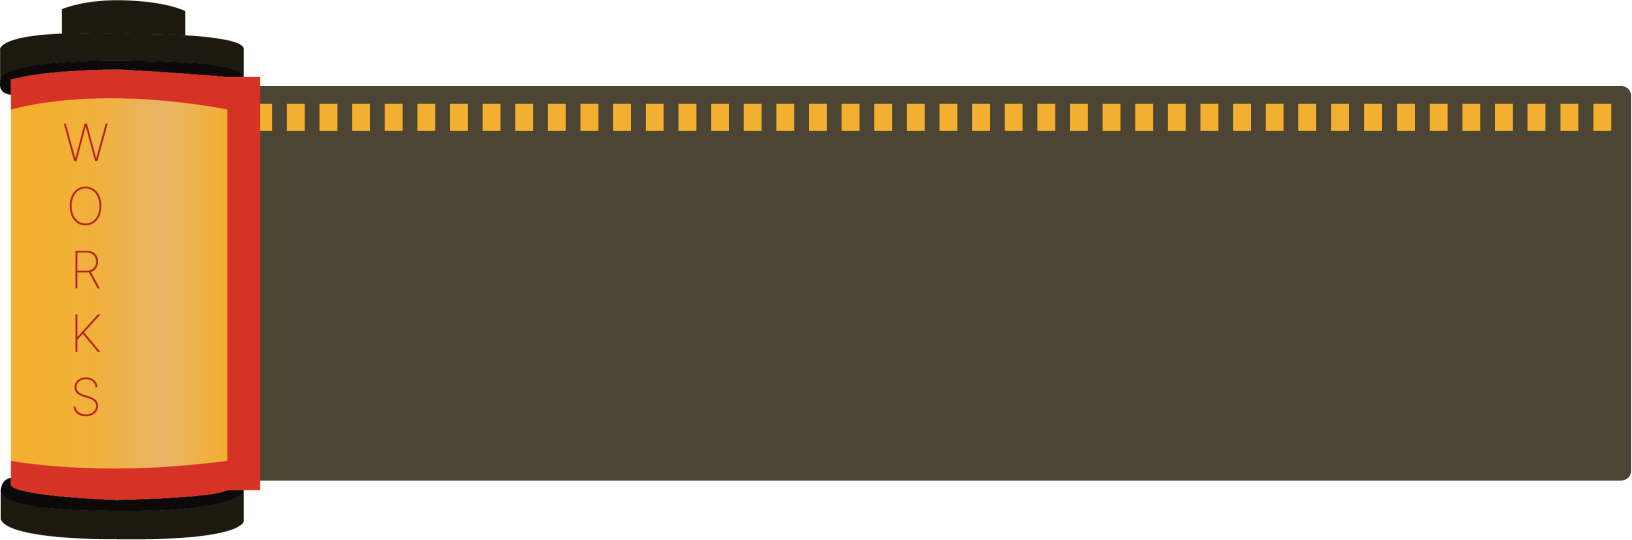
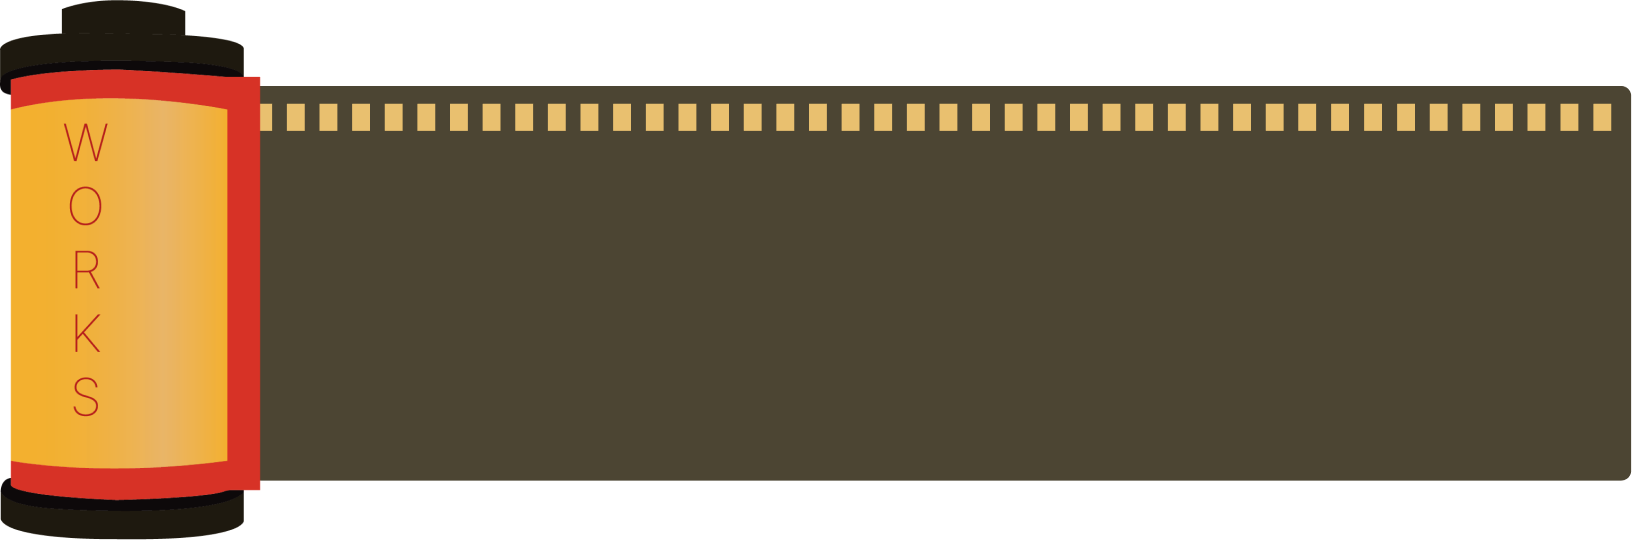
Add files via upload

Changed region(s): [[0.1562, 0.1778, 1.0, 0.2667]]

diff --git a/css/main.css b/css/main.css
@@ -285,7 +285,7 @@ body{color: #fff; font-size: 1.6rem; line-height: 1.5; font-family: 'pretendard'
 
 .gnb{display: flex; }
 .gnb li{position: relative;}
-.gnb li>a{display: block; color: #F3B030; font-size: 2rem; font-family: var(--sub-font); padding-left: 70px;}
+.gnb li>a{display: block; color: #fff; font-size: 2rem; font-family: var(--sub-font); padding-left: 70px; font-weight: 100;}
 .gnb li .depth2{background:rgba(255, 255, 255,0.1);position: absolute; top: 40px; left: 5px;  text-align: center; font-size: 1.6rem; width: 230px;  font-family: var(--main-font); padding: 20px 0;  }
 .gnb li .depth2 li a{font-family: var(--main-font); font-size: 1.6rem; display: block; padding: 5px 20px; font-weight: 700; }
 
@@ -294,7 +294,7 @@ body{color: #fff; font-size: 1.6rem; line-height: 1.5; font-family: 'pretendard'
 
  .gnb{display: flex; }
  .gnb li{position: relative;}
- .gnb li>a{display: block; color: #F3B030; font-size: 2rem; font-family: var(--sub-font); padding-left: 70px;}
+ .gnb li>a{display: block; color: #fff; font-size: 2rem; font-family: var(--sub-font); padding-left: 70px;}
  .gnb li .depth2{width: 180px;  font-family: var(--main-font); padding: 20px 0; left: 15%; }
 
 }
@@ -331,10 +331,10 @@ body{color: #fff; font-size: 1.6rem; line-height: 1.5; font-family: 'pretendard'
 #mv .logo img{display: inline-block; position: absolute; top: 25%; left: 50%; transform: translateX(-50%) scale(0.9,0.9) ; animation: fade-in2 3s;}
 #mv .mv_txt{position: absolute; bottom: 10%; width: 35%; animation: fadeInLeft 3.5s;}
 #mv .mv_txt ul{font-size: 2.8rem;  position: relative;}
-#mv .mv_txt ul:before{ content: ''; width: 60%; height: 2px; background: #F3B030;position: absolute; left: 0;top: -80px;}
+#mv .mv_txt ul:before{ content: ''; width: 60%; height: 2px; background: #E9C06F;position: absolute; left: 0;top: -80px;}
 #mv .mv_txt ul li{padding-bottom: 40px; padding-left: 20%; position: relative; color: #F3B030; letter-spacing: 3px; font-weight: 200;}
 #mv .mv_txt ul li:nth-of-type(2){padding-left: 40%;}
-#mv .mv_txt ul li:before{content: ''; width: 90%; height: 2px; background: #F3B030;position: absolute; left: 0;top: -10px;}
+#mv .mv_txt ul li:before{content: ''; width: 90%; height: 2px; background: #E9C06F;position: absolute; left: 0;top: -10px;}
 #mv .mv_txt ul li:nth-of-type(2):before{width: 110%;}
 
 
@@ -346,10 +346,10 @@ body{color: #fff; font-size: 1.6rem; line-height: 1.5; font-family: 'pretendard'
 
 @media(max-width:1200px){
   #mv .mv_txt ul{font-size: 2.5rem; }
-  #mv .mv_txt ul:before{ content: ''; width: 50%; height: 2px; background: #F3B030;position: absolute; left: 0;top: -80px;}
+  #mv .mv_txt ul:before{ content: ''; width: 50%; height: 2px; background: #E9C06F;position: absolute; left: 0;top: -80px;}
   #mv .mv_txt ul li{padding-bottom: 40px; padding-left: 20%; position: relative; color: #F3B030; letter-spacing: 3px; font-weight: 200; text-align: left;}
  #mv .mv_txt ul li:nth-of-type(2){padding-left: 20%;}
- #mv .mv_txt ul li:before{content: ''; width: 70%; height: 2px; background: #F3B030;position: absolute; left: 0;top: -10px;}
+ #mv .mv_txt ul li:before{content: ''; width: 70%; height: 2px; background: #E9C06F;position: absolute; left: 0;top: -10px;}
  #mv .mv_txt ul li:nth-of-type(2):before{width: 80%;}
 
 }
@@ -361,7 +361,7 @@ body{color: #fff; font-size: 1.6rem; line-height: 1.5; font-family: 'pretendard'
 #about{background: #000; position: relative;}
 #about .contact_pop{position: absolute;bottom: 5%; left: 10%; z-index: 5;}
 #about .about_in{display: flex; justify-content: center; padding-top: 7%; gap: 1%; }
-#about .txt1 h2{font-size: 7rem; color: #F3B030; font-family: var(--sub-font);}
+#about .txt1 h2{font-size: 7rem; color: #E9C06F; font-family: var(--sub-font);}
 #about .txt1 p{font-size: 2.8rem; font-weight: 100; padding-top: 40px;}
 #about .txt1 p span{font-weight: 700;}
 #about .video{width: 35%; padding-top: 3%; }
@@ -395,7 +395,7 @@ body{color: #fff; font-size: 1.6rem; line-height: 1.5; font-family: 'pretendard'
 #skill{background: #000; text-align: center;}
 #skill .skill_in{display: flex;  padding: 5vh 0 5vh;justify-content: flex-start;padding-left: 15vw;}
 #skill .txt{width: 50vw; }
-#skill .txt h2{color: #F3B030; font-size: 7rem; font-family: var(--sub-font);  padding-top: 3%; padding-bottom: 40px;}
+#skill .txt h2{color: #E9C06F; font-size: 7rem; font-family: var(--sub-font);  padding-top: 3%; padding-bottom: 40px;}
 #skill .txt ul{display: flex; flex-wrap: wrap;  justify-content: center; gap: 30px 40px;}
 
 #skill .txt ul li dl dt{font-size: 2rem; color: #F3B030; padding-bottom: 10PX;}
@@ -431,7 +431,7 @@ body{color: #fff; font-size: 1.6rem; line-height: 1.5; font-family: 'pretendard'
 
 
 /* web */
-#web {background: #F3B030;position: relative; }
+#web {background: #E9C06F;position: relative; }
 #web .gnb li>a{display: block; color: #000000; }
 #web h2{font-size: 5rem; font-family: var(--sub-font); color: #000; text-align: center; padding: 100px 0 100px;}
 #web .container{padding-bottom: 80px; position: relative; animation: slide-in-right 3s cubic-bezier(0.250, 0.460, 0.450, 0.940) both;}
@@ -464,7 +464,7 @@ body{color: #fff; font-size: 1.6rem; line-height: 1.5; font-family: 'pretendard'
 
 
 /* graphic */
-#graphic {background: #F3B030;position: relative; }
+#graphic {background: #E9C06F;position: relative; }
 #graphic .gnb li>a{display: block; color: #000000; }
 #graphic .container{padding-bottom: 80px; animation: slide-in-left 3s cubic-bezier(0.250, 0.460, 0.450, 0.940) both;}
 #graphic .container>img{position: absolute; bottom: 0; right: 9%;}
@@ -495,7 +495,7 @@ body{color: #fff; font-size: 1.6rem; line-height: 1.5; font-family: 'pretendard'
 
 
 
-#epilogue{background: #000 url('../images/apil_bg.png')no-repeat bottom 0 left -20% ; text-align: center; position: relative;}
+#epilogue{background: #000 url('../images/apil_bg.png')no-repeat bottom 0 left 0% ; text-align: center; position: relative;}
 #epilogue .contact_pop{position: absolute; top:40%; right: 7%; background; z-index: 5;}
 #epilogue .txt{display: inline-block; margin: 5% 0 12%; position: relative;}
 #epilogue .txt .circle{background: rgba(243, 176, 48, 0.9); width: 380px;height: 380px; border-radius: 50%;position: absolute; z-index: 1;top: 0; left: -10vw; filter: blur(2rem); animation: text-flicker-in-glow 4s linear both;}

diff --git a/index.html b/index.html
@@ -60,7 +60,7 @@
     <section id="about" class="section" data-menuanchor="menu2">
       <header id="header">
         <div class="inner">
-         <h1><a href="#menu1"><img src="images/logo_s.png" alt="eunseo lee"></a></h1>
+         <h1><a href="#menu1"><img src="images/logo_w.png" alt="eunseo lee"></a></h1>
          <nav>
            <ul class="gnb">
              <li><a href="#menu1">INTRO</a></li>
@@ -130,7 +130,7 @@
     <section id="skill" class="section" data-menuanchor="menu3" >
       <header id="header">
         <div class="inner">
-         <h1><a href="#menu1"><img src="images/logo_s.png" alt="eunseo lee"></a></h1>
+         <h1><a href="#menu1"><img src="images/logo_w.png" alt="eunseo lee"></a></h1>
          <nav>
           <ul class="gnb">
             <li><a href="#menu1">INTRO</a></li>
@@ -419,7 +419,7 @@
     <section id="epilogue" class="section" data-menuanchor="menu6">
       <header id="header">
         <div class="inner">
-         <h1><a href="#menu1"><img src="images/logo_s.png" alt="eunseo lee"></a></h1>
+         <h1><a href="#menu1"><img src="images/logo_w.png" alt="eunseo lee"></a></h1>
          <nav>
           <ul class="gnb">
             <li><a href="#menu1">INTRO</a></li>
@@ -458,7 +458,7 @@
          </div>
         </div>
         <p class="hope">
-          저의 필름에 담긴 모든 경험을 바탕으로,  <br>
+          저의 필름에 담긴 경험을 바탕으로,  <br>
           귀사와 함께 더 많은 창의적 순간을 기록해나가고 싶습니다
         </p>
       </div>
